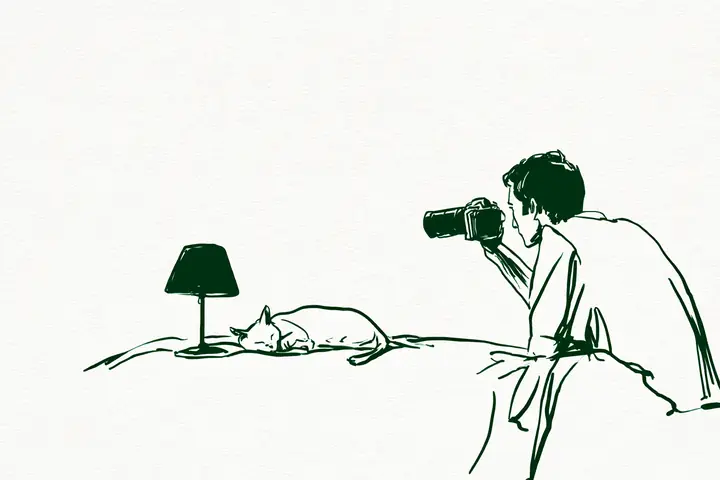
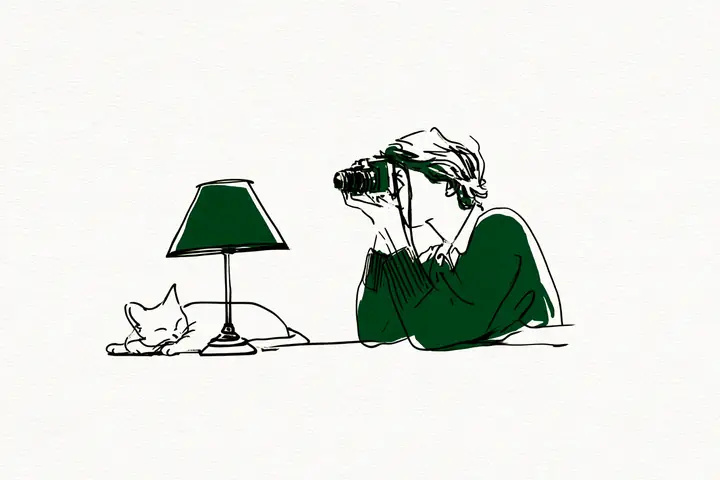
Redraw kurai and auto illustrations with thin ink lines and minimal green

diff --git a/auto-sotsugyou/index.html b/auto-sotsugyou/index.html
@@ -46,7 +46,7 @@
 <p class="here"><svg class="icon" width="14" height="14" viewBox="0 0 24 24" fill="none" stroke="currentColor" stroke-width="2" stroke-linecap="round" stroke-linejoin="round" aria-hidden="true"><path d="M4 8h3l1.6-2.2h6.8L17 8h3a1 1 0 0 1 1 1v9a1 1 0 0 1-1 1H4a1 1 0 0 1-1-1V9a1 1 0 0 1 1-1z"/><circle cx="12" cy="13" r="3.8"/><path d="M11 11.6v2.8M13 11.6v2.8"/></svg>現在地: 買ったけど使えてない</p>
 <h1>カメラのオートモードから抜け出せない初心者は、まずPモードから</h1>
 <p class="meta">公開 2026-10-02 / 更新 2026-10-03</p>
-<figure class="pic eyecatch"><img src="../images/illust/eye-auto.webp" srcset="../images/illust/eye-auto-m.webp 720w, ../images/illust/eye-auto.webp 1200w" sizes="(max-width: 760px) calc(100vw - 32px), 720px" width="1200" height="800" alt="ダイヤルのような円の上を、カメラを構えて歩き出す人の線画イラスト" fetchpriority="high" decoding="async"></figure>
+<figure class="pic eyecatch"><img src="../images/illust/eye-auto.webp" srcset="../images/illust/eye-auto-m.webp 720w, ../images/illust/eye-auto.webp 1200w" sizes="(max-width: 760px) calc(100vw - 32px), 720px" width="1200" height="800" alt="ダイヤルのような円の上を、カメラを手に歩き出す人の線画イラスト" fetchpriority="high" decoding="async"></figure>
 <p>オートから抜け出せないなら、最初の一歩はPモードです。ISO感度はオートにしておき、自分で触るのは露出補正だけにします。</p>
 <p>範囲は2つに絞ります。明るさが思い通りにならないならPと露出補正、背景をぼかしたいならA(キヤノンではAv)。</p>
 <p><strong>この記事で分かること</strong></p>
